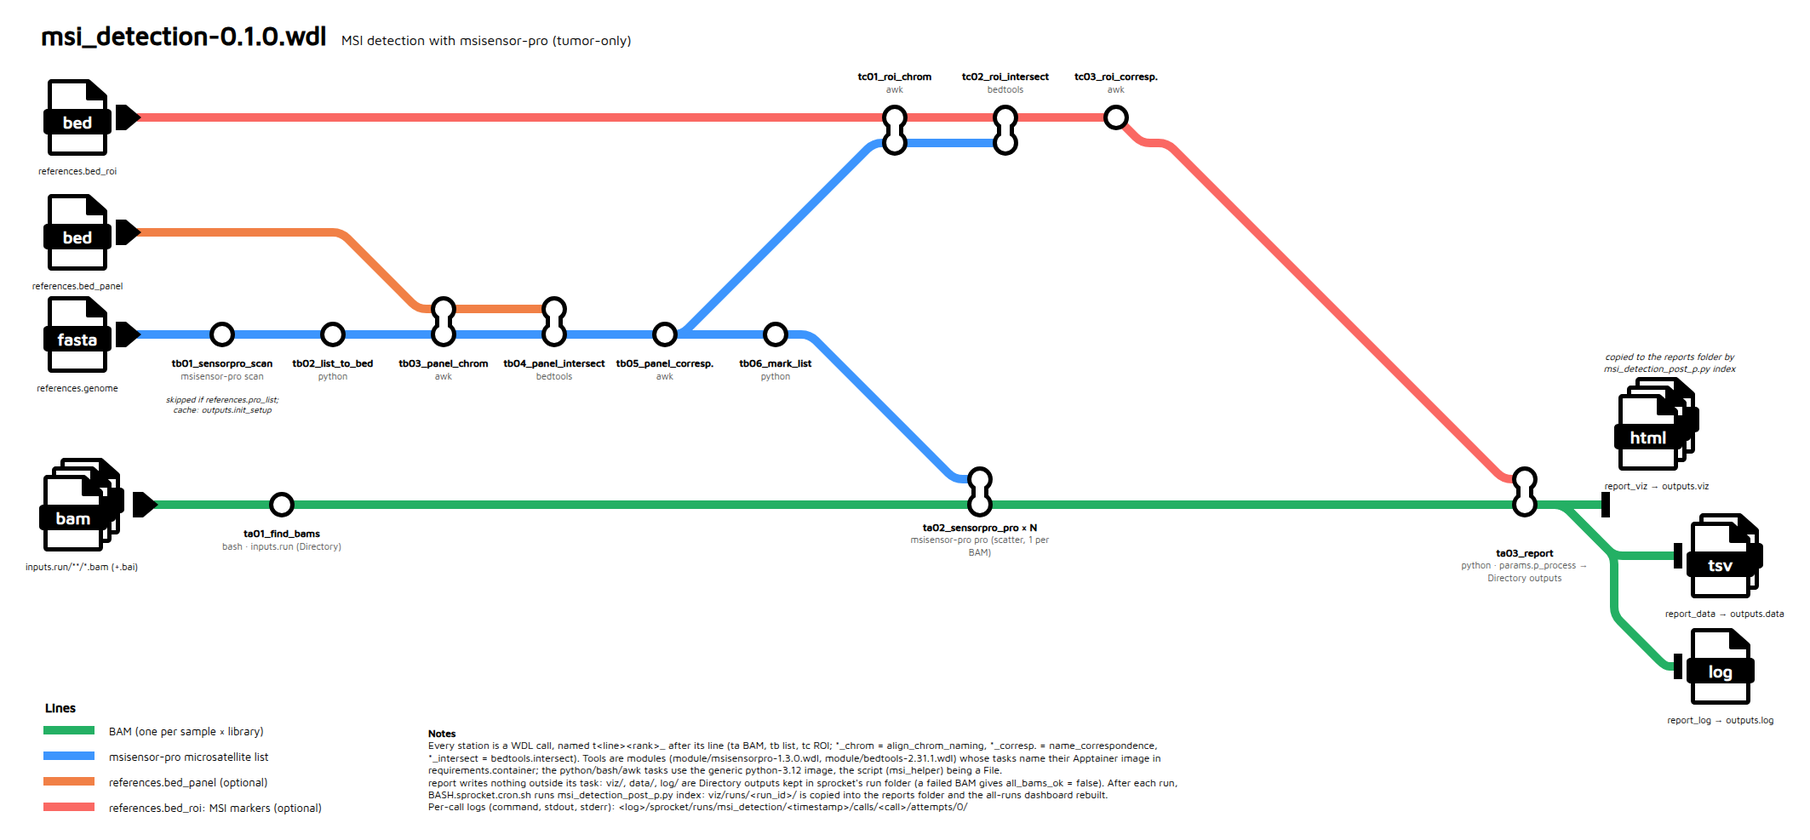
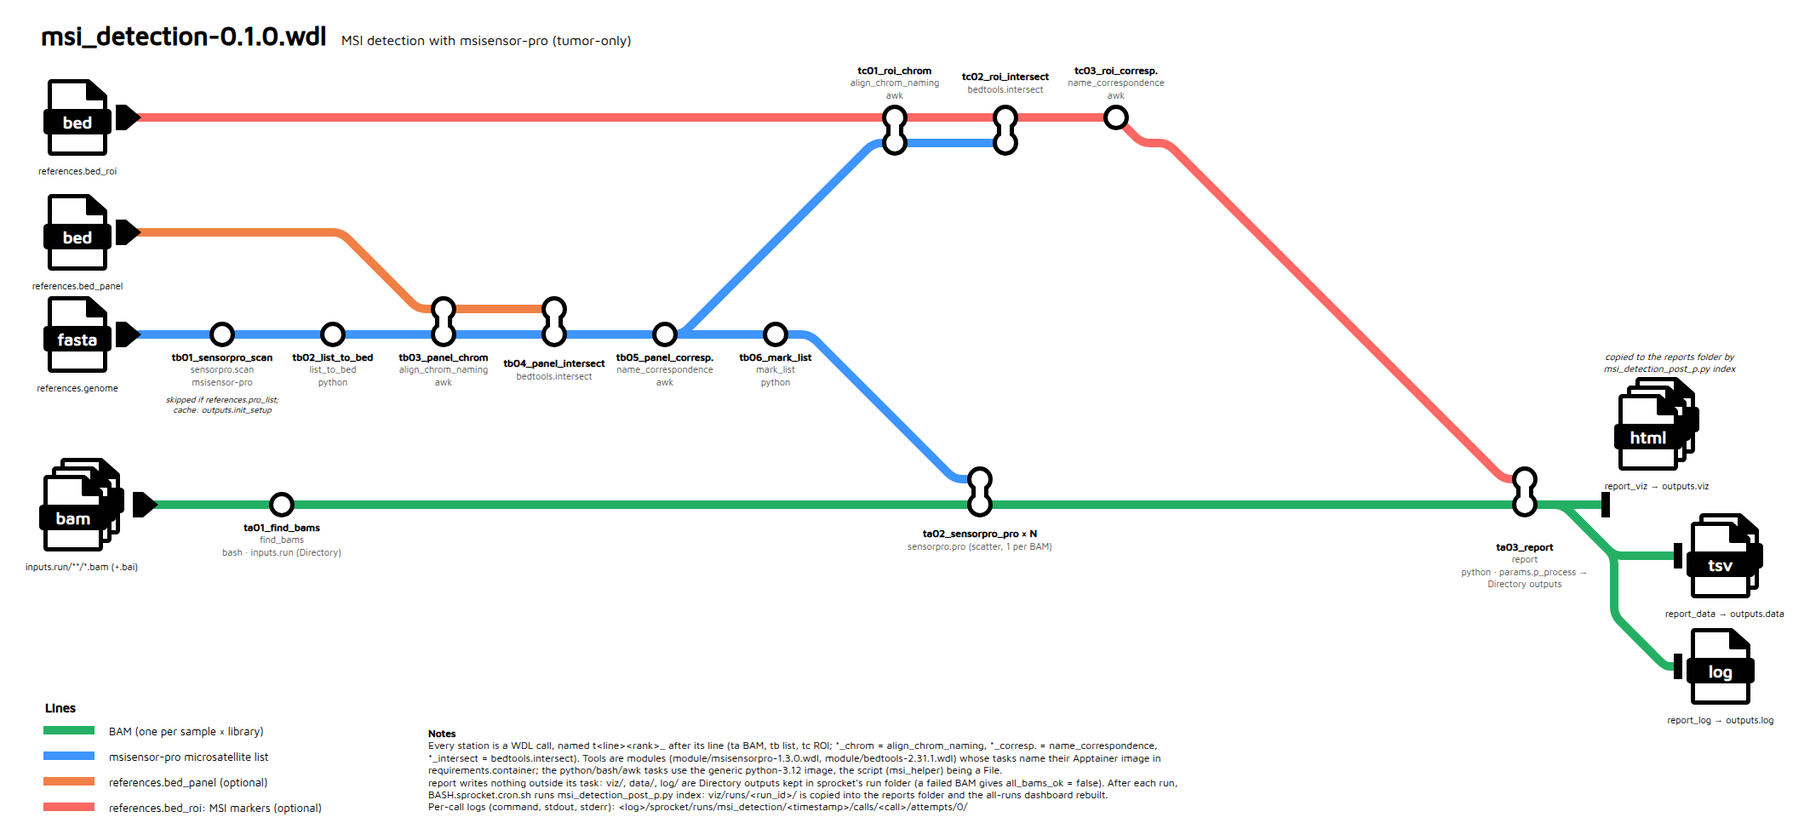
add task to diagram

diff --git a/README.md b/README.md
@@ -1,19 +1,68 @@
-# msi_detection-0.1.0.wdl
+#  Microsatellite instability (MSI) detection
 
-Everything about the WDL workflow lives in this folder (`pipeline-jp/`).
+## Indroduction
+
+WDL workflow, run with [sprocket](https://sprocket.bio), for microsatellite instability (MSI) detection.
+It uses two tool modules, MSIsensor-pro and bedtools, and three Apptainer images: one per tool plus
+a generic Python image for the other steps.
+
+It runs MSIsensor-pro (tumor-only) on every BAM of a run directory, once the upstream pipeline
+(ADIVAR) has finished that run. Controls are skipped: BAMs whose name starts with `TN` or `TPH`.
+
+Before that, `msisensor-pro scan` lists every microsatellite of the genome (once: the result is
+cached, or given as `pro_list`). bedtools then intersects this list with the panel BED, so that
+only the microsatellites inside the panel regions are analysed, and with the ROI BED, which names
+the classic MSI markers (BAT25, BAT26, NR21...) among them.
 
 
-WDL workflow run with [sprocket](https://sprocket.bio). It runs MSIsensor-pro (tumor-only) on every BAM of a run directory,
-restricts the analysis to a sequencing panel and/or the classic MSI markers (BAT26, NR21, ...), and
-updates the HTML reports (all runs → one run → one sample).
+In cron mode, the pipeline compares two lockers: ADIVAR's (JSON, `status` 3 = finished) and the MSI
+locker (text, one run per line = already analysed). A run finished by ADIVAR and not yet in the MSI
+locker is analysed, then added to it. Before the first launch, build the MSI locker from ADIVAR's
+(`companion-scripts/make_msi_locker.py`, see [Configuration](#configuration-to-set-at-install)), so
+that past runs are not re-analysed. As a safeguard, the cron only launches when exactly one run
+differs between the two lockers: with more, it stops with an error and analyses nothing.
+
+For the picked run, the pipeline reads a single field of its `SampleSheet.csv`: the Experiment Name, which gives the BAM folder to analyse.
+
+<table>
+<tr>
+<th>ADIVAR locker</th>
+<th>MSI locker (built from it)</th>
+</tr>
+<tr>
+<td><pre><code>
+{
+    "261001_XV501631_0734_ATESTR141": {
+        "status": 3,
+        "last-status": 3
+    },
+    "261002_XV501631_0542_ATESTR145": {
+        "status": 2,
+        "last-status": 2
+    }
+}
+</code></pre></td>
+<td><pre><code>
+261001_XV501631_0734_ATESTR141
+</code></pre>
+(ATESTR145, still running, is left out: the cron analyses it once ADIVAR finishes it.)</td>
+</tr>
+</table>
+
+Cron mode, e.g. every 4 hours on Thursdays and Fridays:
+
+```sh
+0 */4 * * 4,5 /path/to/pipeline-jp/BASH.sprocket.cron.sh >> /path/to/BASH.sprocket.cron.log 2>&1
+```
+
 
 [![msi_detection metro map](docs/diagram/msi_detection_metromap.preview.png)](docs/diagram/msi_detection_metromap.preview.png)
 
-(Full-size image: [`docs/diagram/msi_detection_metromap.preview.png`](docs/diagram/msi_detection_metromap.preview.png), copied there by `BASH.doc.sh`; editable diagram (local, not in git): `diagram/msi_detection_metromap.drawio`, PNG re-exported with `diagram/BASH.render_png.sh`.)
 
 ## Contents
-
-- [Configuration (to set at install)](#configuration-to-set-at-install)
+- [Introduction](#Introduction)
+- [Before the first cron launch](#Before-the-first-cron-launch)
+- [Configuration](#configuration)
 - [Quick start](#quick-start)
   - [Batch mode: params JSON and TSV export](#batch-mode-params-json-and-tsv-export)
 - [Tasks](#tasks)
@@ -24,17 +73,65 @@ updates the HTML reports (all runs → one run → one sample).
 - [Files](#files)
 - [HTML documentation](#html-documentation)
 
-## Configuration (to set at install)
+## Before the first cron launch
 
-Nothing is read from the environment: every path and Slurm setting is hardcoded in the files below
-(values here: this workstation). Every path must be the same on all the Slurm nodes (shared file
-system): the containers mount them at the same path.
+In order the cron does not analyse every past run, fill the MSI locker
+with the runs ADIVAR has already finished.
+
+```sh
+# same lockers as LOCKER_ADIVAR / LOCKER_MSI of BASH.sprocket.cron.sh
+L=/media/jp/SSD2/CHU/config/locker
+./companion-scripts/make_msi_locker.py --locker-adivar $L/adivar-testNS.json --locker-msi $L/msi-sensor.locker.txt --dry-run   # prints the runs to add
+./companion-scripts/make_msi_locker.py --locker-adivar $L/adivar-testNS.json --locker-msi $L/msi-sensor.locker.txt
+```
+
+## Configuration
+
+Edit these files by hand at install :
+
+- `params/template.json`
+- `params/install.json`
+- `backends.conf/sprocket.prod.toml` # conf sprocket / slurm
+- `BASH.sprocket.cron.sh`
+
+`params/template.json`: (copied by `pre_process` for each run; `run` and `samples` stay empty, filled per run). Define a FASTA genome (`genome`), a BED of your panel (`bed_panel`) and a
+BED of the ROI markers (`bed_roi`), the marker name in the 4th column (custom naming), e.g.
+`ROI.hg19.bed`:
+
+```text
+chr2	47641530	47641644	BAT26	0	+
+chr2	95849332	95849414	NR24	0	+
+chr4	55598161	55598266	BAT25	0	+
+chr11	102193479	102193564	NR27	0	+
+chr11	125490736	125490816	NR22	0	+
+chr13	31722591	31722667	HT17	0	+
+chr14	23652317	23652397	NR21	0	+
+```
+
+Set up the workflow's custom thresholds in the same file (`msi_detection.params`, each key described
+in [Inputs](#inputs)):
+
+```json
+"msi_detection.params": {
+    "threads": 8,
+    "coverage_threshold": 0,
+    "recursive": true,
+    "p_process": {
+        "min_reads": 200,
+        "pval_cutoff": 0.1,
+        "sample_na_fraction": 0.5,
+        "consensus_roi_cutoff": 3
+    }
+}
+```
+
+`params/install.json`: paths of the Apptainer images and Python scripts the WDL workflow uses
+(details below).
 
 **`BASH.sprocket.cron.sh`** (cron mode)
 
 | Variable / line | Value | Role |
 |---|---|---|
-| `PATH` (line 6, commented) | `/home/jp/.cargo/bin:$PATH` | cron's PATH is minimal: uncomment it if `sprocket` is not found |
 | `WDL_DIR` | `/media/jp/SSD2/CHU/code/pipeline-jp` | this folder |
 | `VIZ` | `/media/jp/SSD2/CHU/test/viz` | reports and dashboard (written by `index`) |
 | `WORK` | `/media/jp/SSD2/CHU/test/work` | sprocket's runs (`sprocket/`) and the params JSON (`config/`) |
@@ -65,9 +162,10 @@ system): the containers mount them at the same path.
 | `msi_detection.references.bed_roi` | `/media/jp/SSD2/CHU/refData/MSI/static/ROI.hg19.bed` |
 | `msi_detection.params` | `threads` (8, CPUs of each `msisensor-pro pro` only), `coverage_threshold`, `p_process` thresholds |
 
-**`params/containers.json`**: the workflow's images and python helpers, the only place they are
-set (absolute paths; images as `file://` + path). These five WDL inputs have no default: both
-scripts pass this file before each run's params JSON (`sprocket run ... @containers.json @<params>.json`;
+**`params/install.json`**: what depends on the installation, not on the run: the workflow's
+images and python helpers (scripts given to the tasks as `File`, not built into the image), the
+only place they are set (absolute paths; images as `file://` + path). These five WDL inputs have no default: both
+scripts pass this file before each run's params JSON (`sprocket run ... @install.json @<params>.json`;
 for a key in both, the last file wins, so a params JSON can still override an image for its run).
 Forgetting it stops sprocket before anything runs (`missing required input`).
 
@@ -75,7 +173,7 @@ Forgetting it stops sprocket before anything runs (`missing required input`).
 |---|---|
 | `msi_detection.msisensorpro_container` | `file:///media/jp/SSD2/CHU/code/pipeline-jp/apptainer-recipes/msisensor-pro-1.3.0.sif` |
 | `msi_detection.bedtools_container` | `file:///media/jp/SSD2/CHU/code/pipeline-jp/apptainer-recipes/bedtools-2.31.1.sif` |
-| `msi_detection.helper_container` | `file:///media/jp/SSD2/CHU/code/pipeline-jp/apptainer-recipes/python-3.12.sif` |
+| `msi_detection.python_container` | `file:///media/jp/SSD2/CHU/code/pipeline-jp/apptainer-recipes/python-3.12.sif` |
 | `msi_detection.msi_main_helper` | `/media/jp/SSD2/CHU/code/pipeline-jp/main-scripts/msi_detection_main_p.py` |
 | `msi_detection.msi_report_helper` | `/media/jp/SSD2/CHU/code/pipeline-jp/main-scripts/msi_detection_report_p.py` |
 
@@ -88,6 +186,7 @@ pre_process, index) and `$WDL_DIR/apptainer-recipes/sprocket-doc-0.31.0.sif` (`B
 ```sh
 */30 * * * * /media/jp/SSD2/CHU/code/pipeline-jp/BASH.sprocket.cron.sh >> /media/jp/SSD2/CHU/test/cron.log 2>&1
 ```
+
 
 ## Quick start
 
@@ -105,14 +204,14 @@ mounting only what that step reads:
 
 1. `--print-run` (job `msi-pick_run`; the two lockers): prints the run finished by ADIVAR and not yet
    in the MSI locker;
-2. `--print-experiment` (job `msi-experiment`; + that run's `$RUNS_DIR/<run>/SampleSheet.csv`): checks
-   its `[Header]` and prints its Experiment Name, the name of its BAM folder;
+2. `--print-experiment` (job `msi-experiment`; + that run's `$RUNS_DIR/<run>/SampleSheet.csv`): prints
+   the Experiment Name of its `[Header]`, the name of its BAM folder;
 3. without option (job `msi-pre_process`; + that run's `$BAMS_DIR/<Experiment Name>/`, the MSI
    locker and `$WORK/config/` writable): writes its params JSON in `$WORK/config/` and adds the run
    to the locker.
 
-Neither the whole `$RUNS_DIR` nor the whole `$BAMS_DIR` is mounted. A rejected sample sheet or a
-missing BAM folder stops the script before the run is locked (retried at the next launch).
+Neither the whole `$RUNS_DIR` nor the whole `$BAMS_DIR` is mounted. A sample sheet without
+Experiment Name or a missing BAM folder stops the script before the run is locked (retried at the next launch).
 Then both scripts, for each params JSON:
 
 1. sets the destinations, hardcoded in the script (not in the params): `VIZ` (reports folder) and
@@ -179,7 +278,7 @@ The python scripts can also be run directly on the host (only the standard libra
 Run by hand, with a params JSON written by `pre_process` (or a filled copy of `params/template.json`):
 
 ```sh
-sprocket run -s -c backends.conf/sprocket.prod.toml msi_detection-0.1.0.wdl @params/containers.json @$WORK/config/<date>-<run>-<Experiment Name>.json
+sprocket run -s -c backends.conf/sprocket.prod.toml msi_detection-0.1.0.wdl @params/install.json @$WORK/config/<date>-<run>-<Experiment Name>.json
 ```
 
 ## Tasks
@@ -187,13 +286,13 @@ sprocket run -s -c backends.conf/sprocket.prod.toml msi_detection-0.1.0.wdl @par
 In execution order. Tools are wrapped in **modules**, imported by the workflow:
 
 ```wdl
-import "module/msisensorpro-1.3.0.wdl" as msisensorpro   # tasks scan, pro
+import "module/msisensorpro-1.3.0.wdl" as sensorpro   # tasks scan, pro
 import "module/bedtools-2.31.1.wdl" as bedtools           # task intersect
 ```
 
 Module tasks are generic (the tool's own options only), declare their image in
 `requirements.container` and can be reused by other workflows; the pipeline-specific steps are
-tasks of `msi_detection-0.1.0.wdl`, in a generic python3 + awk image (`helper_container`,
+tasks of `msi_detection-0.1.0.wdl`, in a generic python3 + awk image (`python_container`,
 `apptainer-recipes/python-3.12.sif`); the python script is given to them as a `File`, not built into the image.
 
 Calls are named after their line on the diagram, `t<line><rank>_<step>`: `ta` BAMs (green),
@@ -203,14 +302,14 @@ start with a digit, hence the letter; sprocket's `calls/<call>/` folders group t
 | Call (task) | Runs | What it does | Main output |
 |---|---|---|---|
 | `ta01_find_bams` (`find_bams`) | python image, bash | Lists every `*.bam` of the run directory (`inputs.run`) (sub-folders with `params.recursive`), with its index (`.bam.bai` or `.bai`), its library (folder relative to `input_dir`, `.` if none) and its sample name (BAM basename). `inputs.run` is a `Directory` (mounted by the engine); paths are returned relative to it. With `inputs.samples`, keeps only the BAMs whose name contains one of these IDs (every library). Fails if a BAM has no index, no BAM is found, or a sample ID matches no BAM. | `bams`: one row per BAM |
-| `tb01_sensorpro_scan` (`msisensorpro.scan`) | msisensor-pro | `msisensor-pro scan` of the genome: every microsatellite site. Skipped when `references.pro_list` is given. Not redone from one run to the next: sprocket's call cache (`[run.task] cache = "on"`) reuses the previous scan (same genome and image), as long as that run's folder is kept. | `<genome>.msisensor_pro.list` |
+| `tb01_sensorpro_scan` (`sensorpro.scan`) | msisensor-pro | `msisensor-pro scan` of the genome: every microsatellite site. Skipped when `references.pro_list` is given. Not redone from one run to the next: sprocket's call cache (`[run.task] cache = "on"`) reuses the previous scan (same genome and image), as long as that run's folder is kept. | `<genome>.msisensor_pro.list` |
 | `tb02_list_to_bed` (`list_to_bed`) | python image | Converts the list to BED6 (start = location − 1, end = start + unit length × repeat times). | `<list>.bed` |
 | `tb03_panel_chrom` (`align_chrom_naming`) | python image, awk | Only with `bed_panel`. Copy of the panel BED with its chromosome names (`chr1` / `1`) aligned on the list's: bedtools matches them literally. | `<panel>.chrnorm.bed` |
 | `tb04_panel_intersect` (`bedtools.intersect`) | bedtools | `bedtools intersect -wa -wb -f 1.0`: the sites fully inside a panel region, one row per overlap. | `<list>.panel.intersect.tsv` |
 | `tb05_panel_correspondence` (`name_correspondence`) | python image, awk | Turns the intersection into a BED6 named `<site>#<probe>#<chrom:start-end>`. | `<list>.panel.bed` |
 | `tb06_mark_list` (`mark_list`) | python image | Only with `bed_panel`. Full list, same rows, `filter` = `PASS` for the panel sites, `NO` elsewhere: **the list analysed by msisensor-pro**. | `<list>.panel.list` |
 | `tc01_roi_chrom`, `tc02_roi_intersect`, `tc03_roi_correspondence` | python image / bedtools / python image | Only with `bed_roi`. Same three steps with the ROI markers, on the panel sites when there is a panel (genome-wide otherwise). Name ends with `#<marker>`. | `<list>.panel.roi.bed` |
-| `ta02_sensorpro_pro` × N (`msisensorpro.pro`) | msisensor-pro | Scatter, one per BAM: `msisensor-pro pro -d <analysis list> -t <bam> -b threads -c coverage_threshold`. A failure on any BAM fails the workflow. | `<sample>`, `_all`, `_dis`, `_unstable` |
+| `ta02_sensorpro_pro` × N (`sensorpro.pro`) | msisensor-pro | Scatter, one per BAM: `msisensor-pro pro -d <analysis list> -t <bam> -b threads -c coverage_threshold`. A failure on any BAM fails the workflow. | `<sample>`, `_all`, `_dis`, `_unstable` |
 | `ta03_report` (`report`) | python image | Gets every BAM's results as `File`s, copies them to `data/<run_id>/<library>/`, builds this run's reports in `viz/runs/<run_id>/` (run page, sample pages; the all-runs dashboard is built by `index` after the run) and writes the log; writes nothing outside its task. | `viz/`, `data/`, `log/` (`Directory`) |
 
 The python steps of the workflow are subcommands of two self-contained scripts (a WDL task gets
@@ -233,13 +332,13 @@ to `sbatch`). Only `ta02_sensorpro_pro` takes `params.threads`: every other task
 |---|---|---|---|---|
 | `msi-pick_run`, `msi-experiment`, `msi-pre_process` (cron only) | `msi_detection_pre_p.py` | 1 | 1 GiB | `srun` line of `BASH.sprocket.cron.sh` |
 | `ta01_find_bams` | `find_bams` | 1 | 512 MiB | `msi_detection-0.1.0.wdl` |
-| `tb01_sensorpro_scan` | `msisensorpro.scan` | 1 | 4 GiB | `module/msisensorpro-1.3.0.wdl` |
+| `tb01_sensorpro_scan` | `sensorpro.scan` | 1 | 4 GiB | `module/msisensorpro-1.3.0.wdl` |
 | `tb02_list_to_bed` | `list_to_bed` | 1 | 2 GiB | `msi_detection-0.1.0.wdl` |
 | `tb03_panel_chrom`, `tc01_roi_chrom` | `align_chrom_naming` | 1 | 512 MiB | `msi_detection-0.1.0.wdl` |
 | `tb04_panel_intersect`, `tc02_roi_intersect` | `bedtools.intersect` | 1 | 2 GiB | `module/bedtools-2.31.1.wdl` |
 | `tb05_panel_correspondence`, `tc03_roi_correspondence` | `name_correspondence` | 1 | 512 MiB | `msi_detection-0.1.0.wdl` |
 | `tb06_mark_list` | `mark_list` | 1 | 2 GiB | `msi_detection-0.1.0.wdl` |
-| `ta02_sensorpro_pro` × N (one per BAM) | `msisensorpro.pro` | `params.threads` (8: `pro -b`) | 4 GiB | CPU: params JSON; memory: `module/msisensorpro-1.3.0.wdl` |
+| `ta02_sensorpro_pro` × N (one per BAM) | `sensorpro.pro` | `params.threads` (8: `pro -b`) | 4 GiB | CPU: params JSON; memory: `module/msisensorpro-1.3.0.wdl` |
 | `ta03_report` | `report` | 1 | 2 GiB | `msi_detection-0.1.0.wdl` |
 | `msi-index` | `msi_detection_post_p.py index` | 1 | 1 GiB | `srun` line of `BASH.sprocket.cron.sh` / `BASH.sprocket.batch.sh` |
 | `msi-make_configs`, `msi-export_tsv` (batch only, run by hand) | `make_configs.py`, `export_tsv.py` | 1 | 1 GiB | `srun` line of `BASH.make_configs.sh` / `BASH.export_tsv.sh` |
@@ -276,10 +375,10 @@ Optional members can be left out of their object.
 | | `p_process.pval_cutoff` | yes | Reports: a site is unstable when its p-value is above this (e.g. 0.1) |
 | | `p_process.sample_na_fraction` | yes | Reports: sample status NA when more than this fraction of the loci listed on its sample page are NA or MSU (e.g. 0.5): ROI markers, and sites with a p-value in at least one library (loci without any, e.g. 0 reads everywhere, are left out) |
 | | `p_process.consensus_roi_cutoff` | yes | Reports: sample status MSI when at least this many ROI markers are unstable in consensus, MSS otherwise (e.g. 3) |
-| `msisensorpro_container`, `bedtools_container` | | yes (`params/containers.json`) | Image of each tool (see below) |
-| `helper_container` | | yes (`params/containers.json`) | Generic python3 + awk image of the python/bash tasks |
-| `msi_main_helper` | | yes (`params/containers.json`) | Python reference list steps, a `File` |
-| `msi_report_helper` | | yes (`params/containers.json`) | Python report step, a `File` |
+| `msisensorpro_container`, `bedtools_container` | | yes (`params/install.json`) | Image of each tool (see below) |
+| `python_container` | | yes (`params/install.json`) | Generic python3 + awk image of the python/bash tasks |
+| `msi_main_helper` | | yes (`params/install.json`) | Python reference list steps, a `File` |
+| `msi_report_helper` | | yes (`params/install.json`) | Python report step, a `File` |
 
 The genome, panel and ROI must use the same build as the BAMs (e.g. GRCh37 + `ROI.hg19.bed`).
 
@@ -288,13 +387,35 @@ The genome, panel and ROI must use the same build as the BAMs (e.g. GRCh37 + `RO
 Returned by `ta03_report` as `Directory` outputs, in its `work/` folder of the run directory;
 `index` then adds `runs/<run_id>/` to `$VIZ` and builds the dashboard there:
 
+```text
+<VIZ>/
+├── index_msi_run.html              all runs (written once)
+├── index_msi_run.js                its data, rewritten by each index
+├── index_msi_sample.html           all samples of all runs (written once)
+├── index_msi_sample.js             its data, rewritten by each index
+└── runs/
+    ├── Run154_Juno/                one folder per run (<run_id>)
+    │   ├── Run154_Juno_index_run.html      one row per sample, one column group per library
+    │   ├── Run154_Juno_index_run.js
+    │   ├── C22D02853_index_sample.html     one sample, pooled across its libraries
+    │   └── C22D02853_index_sample.js
+    └── Run171_Juno/
+        ├── Run171_Juno_index_run.html
+        ├── Run171_Juno_index_run.js
+        ├── C22D03556T_index_sample.html
+        ├── C22D03556T_index_sample.js
+        ├── C22D03587T_index_sample.html
+        └── C22D03587T_index_sample.js
 ```
-<VIZ>/index_msi_run.html                       all runs (written once, reads index_msi_run.js)
-<VIZ>/index_msi_sample.html                    all samples of all runs (written once, reads index_msi_sample.js)
-<VIZ>/runs/<run_id>/<run_id>_index_run.html     one row per sample, one column group per library
-<VIZ>/runs/<run_id>/<sample>_index_sample.html  one sample, pooled across its libraries
-data/<run_id>/<library>/<sample>{,_all,_dis,_unstable}
-log/<run_id>_MSI_<timestamp>.log
+
+`data/` and `log/` are not copied to `$VIZ`: they stay in `ta03_report`'s folder of the sprocket run
+(path: `report_data` / `report_log` in `outputs.json`; links in
+`$WORK/sprocket/index/msi_detection/<params JSON name>/`, except when every call came from the cache:
+`outputs.json` then points to the run that computed them, possibly in another `OUT_DIR`):
+
+```
+<sprocket run>/calls/ta03_report/attempts/0/work/data/<run_id>/<library>/<sample>{,_all,_dis,_unstable}
+<sprocket run>/calls/ta03_report/attempts/0/work/log/<run_id>_MSI_<timestamp>.log
 ```
 
 sprocket's own run directory (with `BASH.sprocket.cron.sh`: `$WORK/sprocket/runs/msi_detection/<timestamp>/`, `_latest` → last run):
@@ -311,37 +432,6 @@ Workflow outputs (`outputs.json`): `msi_reference_list`, `msi_analysis_list`,
 `msisensorpro_unstable`, `report_viz`, `report_data`, `report_log`
 (Directory).
 
-## Containers: development vs production
-
-Tool tasks only name their image and call the tool directly:
-
-```wdl
-command <<<
-    msisensor-pro pro -d "~{msi_list}" -t "~{bam}" -o "~{sample_name}" ...
->>>
-requirements {
-    container: container
-}
-```
-
-Development and production use the same backend, `slurm_apptainer`: sprocket submits every task
-with `sbatch` and runs it with `apptainer exec` in its image, mounting its `File`/`Directory`
-inputs and its work directory (nothing else of the host is visible).
-
-| | Development | Production |
-|---|---|---|
-| Config | `backends.conf/sprocket.prod.toml` | `backends.conf/sprocket.prod.toml` |
-| Slurm | single node on this workstation (`backends.conf/slurm-local/install.sh`) | the cluster, partition `prod`, 600 min |
-| `*_container` (`params/containers.json`) | `file://.../apptainer-recipes/<tool>.sif` | `file:///bioinfo/apptainer_sif/<tool>_<version>.sif` |
-
-The workflow's python scripts are deliberately **not** in the image: they are `File` inputs (`msi_main_helper`, `msi_report_helper`),
-versioned with the WDL, so editing them needs no image rebuild (a frozen image with the scripts inside
-only if the workflow is ever distributed without this folder).
-
-Every task only reads its inputs and writes in its own directory (the run directory is a
-`Directory` input, the reports are `Directory` outputs). The reports folder (`$VIZ`) is only
-written by `index`, after the run.
-
 ## Files
 
 | File | Role |
@@ -353,37 +443,15 @@ written by `index`, after the run.
 | `main-scripts/msi_detection_report_p.py` | Report step of the workflow (`msi_report_helper`): this run's pages (page icon embedded) |
 | `main-scripts/msi_detection_post_p.py` | After the workflow: `index`, the all-runs dashboard (run by `BASH.sprocket.cron.sh` / `BASH.sprocket.batch.sh`) |
 | `apptainer-recipes/python-3.12.def` | Generic python3 + awk image of the python/bash tasks |
-| `params/containers.json` | Images and python helpers of the workflow (passed to every `sprocket run`) |
+| `params/install.json` | Images and python helpers of the workflow (passed to every `sprocket run`) |
 | `params/template.json` | Params JSON template (GRCh37, Juno v3 panel, ROI hg19): `pre_process` fills `run` per run |
 | `backends.conf/sprocket.prod.toml` | sprocket config: Slurm + Apptainer |
 | `backends.conf/slurm-local/` | Single-node Slurm of this workstation (`sudo ./install.sh`) |
 | `BASH.sprocket.cron.sh`, `companion-scripts/BASH.sprocket.batch.sh` | `sprocket run` with this folder's config: cron mode (run found by pre_process) / batch mode (folder of params JSON) |
 | `companion-scripts/make_configs.py`, `BASH.make_configs.sh` | Batch mode, before: `<run>_params.json` of the given runs of a BAM group folder (`failed-runs.txt`: runs without BAM); its Slurm/Apptainer launcher |
 | `companion-scripts/export_tsv.py`, `BASH.export_tsv.sh` | Batch mode, after: results of a reports folder as a TSV, one line per sample; its Slurm/Apptainer launcher |
+| `companion-scripts/make_msi_locker.py` | Cron mode, before the first launch: adds every run finished by ADIVAR to the MSI locker |
 | `BASH.doc.sh`, `apptainer-recipes/sprocket-doc-0.31.0.def` | HTML documentation (`docs/`, generated) and its image |
 | `diagram/msi_detection_metromap.drawio` / `.preview.png`, `diagram/BASH.render_png.sh` | Workflow diagram, its PNG export |
-
-## HTML documentation
-
-Generated by sprocket from the WDL's `meta` / `parameter_meta`, with this README as home page:
-
-```sh
-./BASH.doc.sh        # sprocket dev doc . --output docs --index-page README.md ... + diagram copy
-```
-
-Open [`docs/index.html`](docs/index.html). The search bar needs the pages to be served over http (browsers block its
-index files from `file://`):
-
-```sh
-python3 -m http.server -d docs 8000      # then http://localhost:8000
-```
-
-`BASH.doc.sh` runs `sprocket dev doc` in `apptainer-recipes/sprocket-doc-0.31.0.sif` (sprocket +
-Node.js + `pagefind`, pre-cached for the search index): nothing to install on the host, no download.
-Rebuild the image with:
-
-```sh
-cd apptainer-recipes && apptainer build --fakeroot sprocket-doc-0.31.0.sif sprocket-doc-0.31.0.def
-```
 
 
